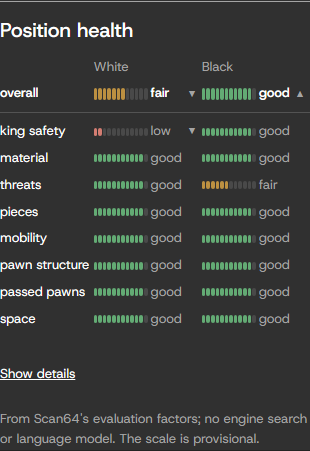
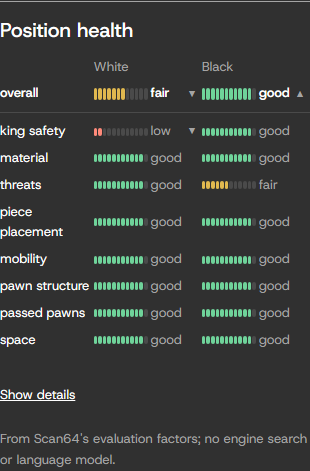
docs(health): the guide describes net meters on the fitted scale; screenshots in the new colours (#416)

diff --git a/docs/user-guide.md b/docs/user-guide.md
@@ -717,13 +717,15 @@ Use **First**, **Previous**, **Next**, **Last**, the board move list or **Variat
 
 The **Position health** panel shows how the selected position stands on eight evaluation factors, one meter each for both sides, with an overall meter above them. It is on by default; turn it off under **Settings → Chessboard → Position health panel**, and the choice persists. On the Analysis Board the columns are White and Black. In game review they are You and Opponent, for the side you played (White and Black when your side is unknown).
 
-| Meter | What it measures |
+Every meter compares the two sides: it reads this side's value of its factor minus the opponent's, so a factor both sides hold equally (for example material after even exchanges) reads the same for both.
+
+| Meter | What it compares |
 |---|---|
-| overall | the factor evaluation's total: every factor below plus material imbalance and endgame scaling, weighed as Stockfish's classical evaluation weighs them |
-| king safety | pawn shelter and pawn storm around the king, less the opponent's attack on it |
+| overall | the factor evaluation's total without the side-to-move bonus: every factor below plus material imbalance and endgame scaling, weighed as Stockfish's classical evaluation weighs them |
+| king safety | pawn shelter, pawn storm and the attack on each king |
 | material | piece values and piece placement on their squares |
-| threats | threats the opponent's pieces make against this side (a full meter: no threats) |
-| pieces | outposts, rooks on open files, trapped rooks, bishops and pawns on the same colour, king protectors |
+| threats | threats each side's pieces make against the other's |
+| piece placement | outposts, rooks on open files, trapped rooks, bishops and pawns on the same colour, king protectors |
 | mobility | squares each piece can safely reach |
 | pawn structure | isolated, doubled, backward and connected pawns |
 | passed pawns | passed pawns, their rank, file and blockade |
@@ -731,11 +733,11 @@ The **Position health** panel shows how the selected position stands on eight ev
 
 ![Position health panel, light theme](images/position-health-light-1280.png) ![Position health panel, dark theme](images/position-health-dark-1280.png)
 
-Each meter shows its health three ways: how many of its 12 segments are lit, a word (**good**, **fair** or **low**) and a colour from green to amber to red. A ▲ or ▼ marks a meter that rose or fell by at least 0.05 since the previous position. Screen readers read each meter as, for example, "You king safety: low, falling". **Show details** lists the largest terms behind each meter in pawns; for the overall meter, the factors that move the total most.
+Each meter shows its health three ways: how many of its 12 segments are lit, a word (**good**, **fair** or **low**) and a colour from green to amber to red. A ▲ or ▼ marks a meter that rose or fell by at least 0.05 since the previous position. Screen readers read each meter as, for example, "You king safety: low, falling". **Show details** lists each meter's largest nonzero terms, this side's value minus the opponent's, in pawns; for the overall meter, the factors. A meter with no nonzero term says so.
 
 The panel uses Scan64's factor module, a port of the Stockfish Evaluation Guide (Stockfish's classical, hand-written evaluation). It runs no engine search and calls no language model, so it reads the same whichever engine is configured and with no model set up, and it can differ from the engine's score above it. A position is evaluated in about 3 ms.
 
-Each meter maps its value, in pawns from that side's view, to a health between 0 and 1: `1 / (1 + exp(-(2 + (value - start) / scale)))`, where `start` is the value in the starting position. Every meter reads about 0.88 at the start, and 0.5 when the side has lost two scales from there. The scales in `HEALTH_SCALE` and `OVERALL_SCALE` (`src/scan64/learning/position_health.py`) are provisional: the group scales are the change thresholds fitted in `docs/evaluation/factor-calibration.md` (at least 0.25 pawns), and the overall scale is 1 pawn. A fit of these scales on recorded games will replace them. The API is `POST /v1/analysis/position/health` with `fen`, `learner` (`white` or `black`) and optional `previous_fen` for the trend.
+Each meter maps its value, in pawns from that side's view, to a health between 0 and 1, linear from the value at which it reads empty to the value at which it reads full. Those bounds are fitted on recorded positions (`HEALTH_SCALE` in `src/scan64/explanations/factor_facts.py`; method and table in `docs/evaluation/factor-calibration.md`, section "Health scale"). A health of at least 2/3 reads **good**, below 1/3 **low**. Level positions do not read full on every meter: in the starting position several meters read **fair**, because a side reads full only when it is ahead on that factor. The API is `POST /v1/analysis/position/health` with `fen`, `learner` (`white` or `black`) and optional `previous_fen` for the trend.
 
 #### Explain the engine lines
 
